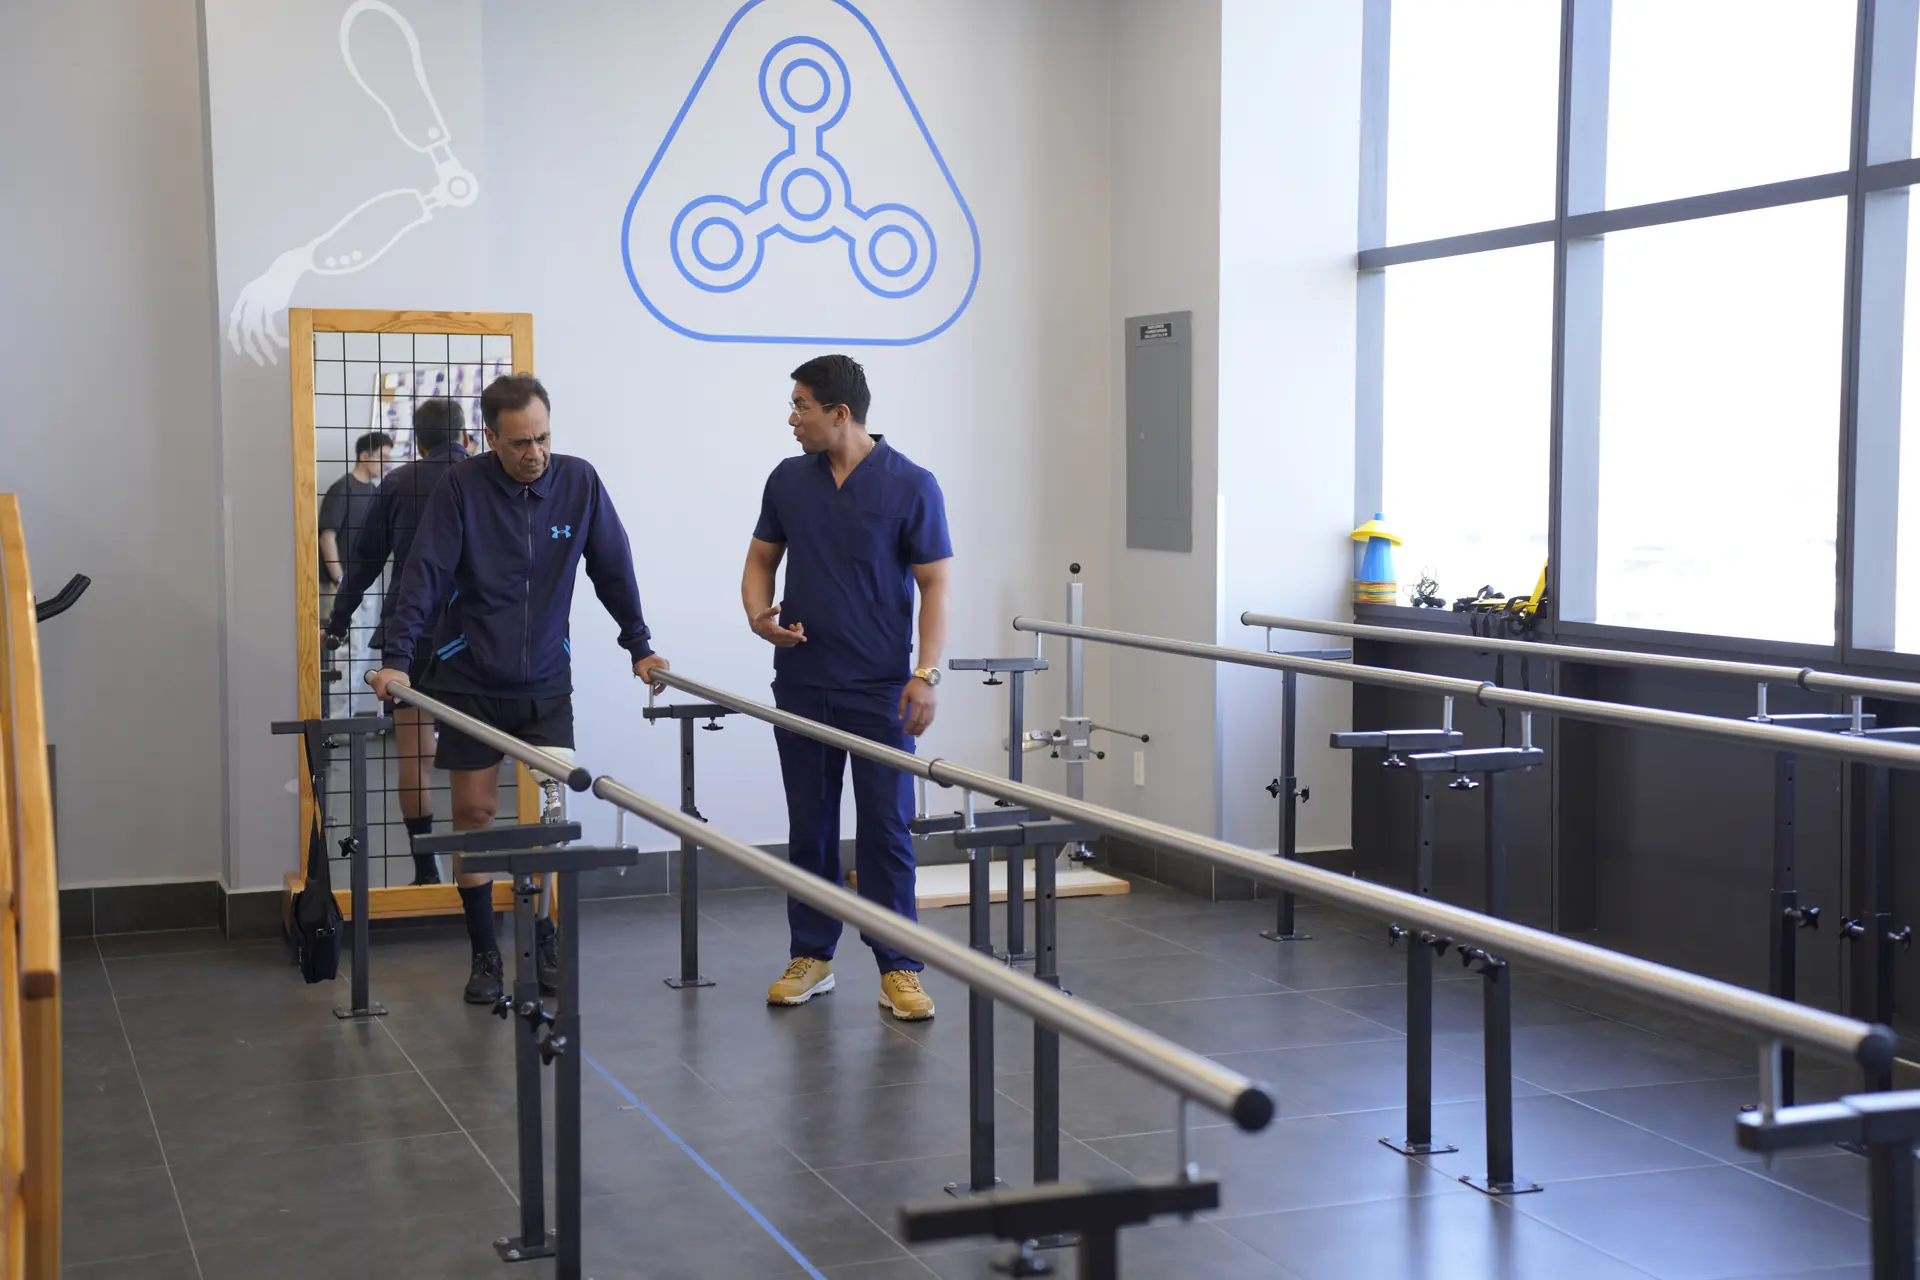
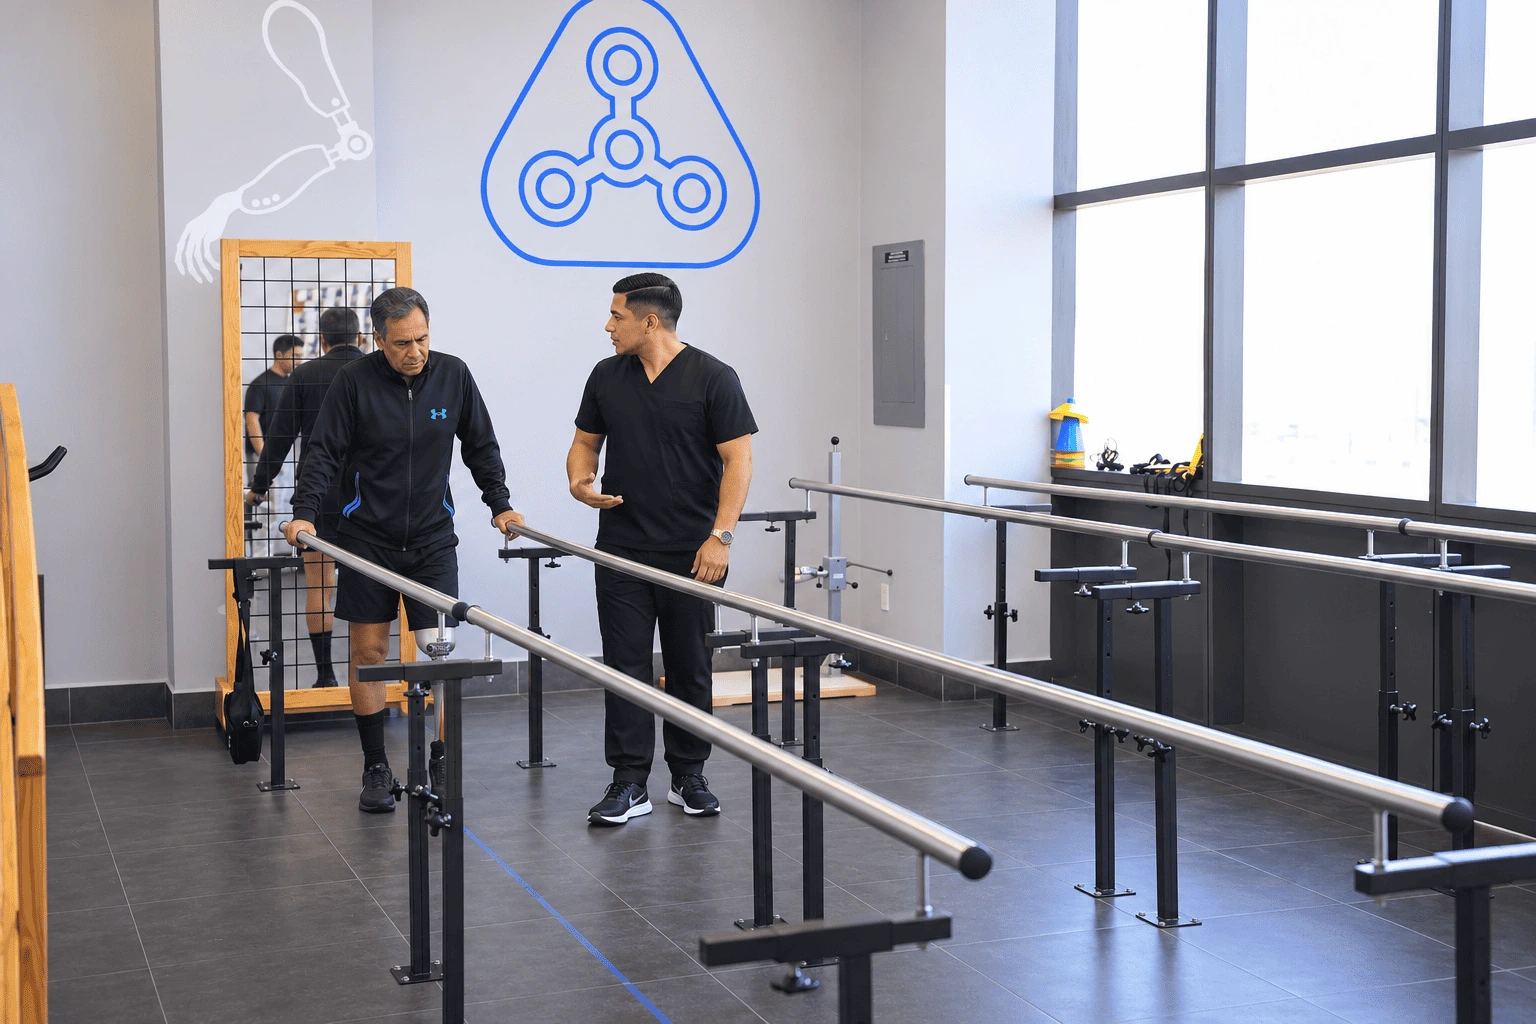
Actualiza las fotos del sitio, asigna las portadas del blog por nombre y redondea la foto del equipo.

diff --git a/src/data/blog.ts b/src/data/blog.ts
@@ -1,7 +1,7 @@
 // Contenido temporal del blog. Más adelante se sustituye por el headless de WordPress.
-import coverValoracion from '../assets/nosotros/historia.png'
-import coverTecnologia from '../assets/nosotros/historia-2.png'
-import coverSeguros from '../assets/Proceso/image 16.png'
+import coverValoracion from '../assets/blog/¿Qué sucede durante una valoración protésica_.jpg'
+import coverTecnologia from '../assets/blog/Prótesis mecánica y mioeléctrica_.jpg'
+import coverSeguros from '../assets/blog/Pago directo para una prótesis.png'
 import coverRehab from '../assets/nosotros/historia-2.png'
 
 export const BLOG_CATEGORIES = [

diff --git a/src/components/NosotrosHistoria.css b/src/components/NosotrosHistoria.css
@@ -58,6 +58,10 @@
   max-width: none;
 }
 
+.historia--equipo .historia__photo {
+  border-radius: 0.85rem;
+}
+
 .historia__card {
   display: flex;
   flex-direction: column;
